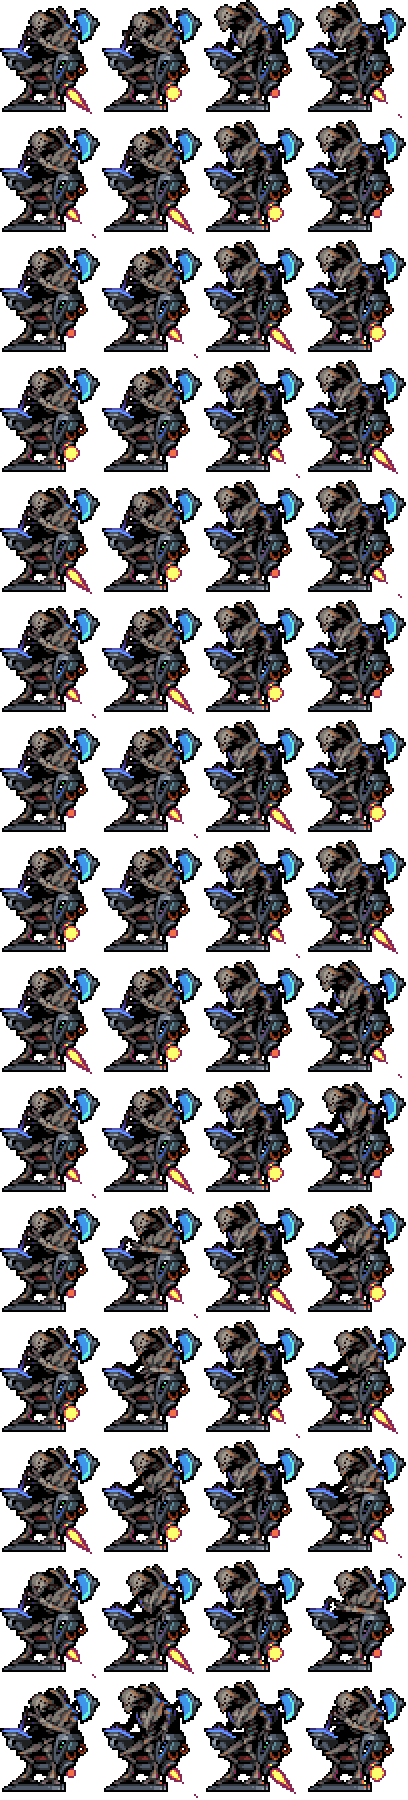
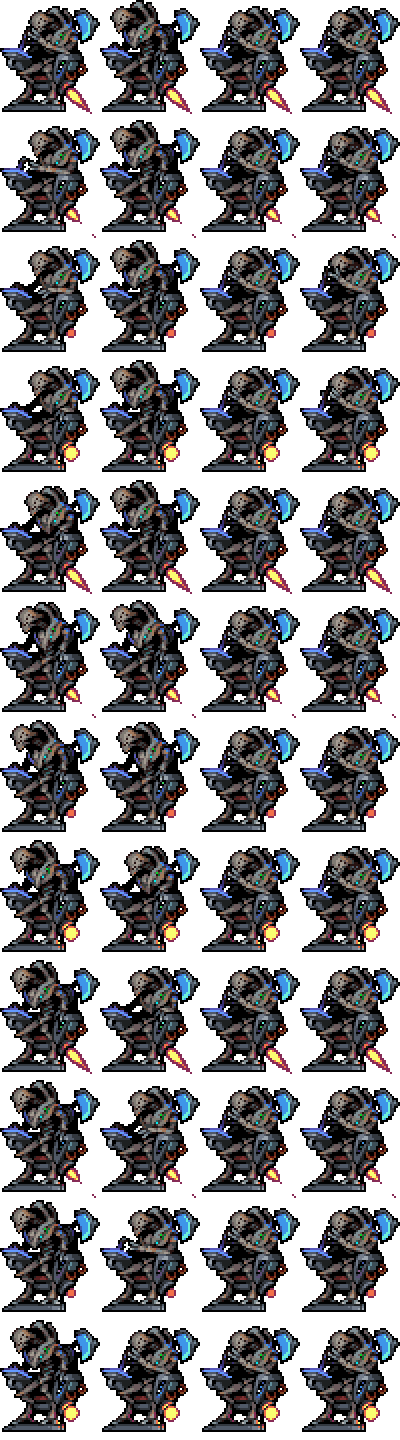
Updated Draedon's sprite

diff --git a/NPCs/ExoMechs/Draedon.cs b/NPCs/ExoMechs/Draedon.cs
@@ -60,13 +60,13 @@ namespace CalamityMod.NPCs.ExoMechs
         public override void SetStaticDefaults()
         {
             DisplayName.SetDefault("Draedon");
-            Main.npcFrameCount[npc.type] = 15;
+            Main.npcFrameCount[npc.type] = 12;
         }
 
         public override void SetDefaults()
         {
             npc.damage = 0;
-            npc.width = npc.height = 34;
+            npc.width = npc.height = 86;
             npc.defense = 100;
             npc.lifeMax = 16000;
             npc.noGravity = true;
@@ -74,6 +74,7 @@ namespace CalamityMod.NPCs.ExoMechs
             npc.dontTakeDamage = true;
             npc.aiStyle = aiType = -1;
             npc.knockBackResist = 0f;
+            npc.DeathSound = SoundID.NPCDeath14;
             npc.Calamity().DoesNotGenerateRage = true;
         }
 
@@ -450,15 +451,15 @@ namespace CalamityMod.NPCs.ExoMechs
 
         public override void FindFrame(int frameHeight)
         {
-            npc.frame.Width = 102;
+            npc.frame.Width = 100;
 
             int xFrame = npc.frame.X / npc.frame.Width;
             int yFrame = npc.frame.Y / frameHeight;
             int frame = xFrame * Main.npcFrameCount[npc.type] + yFrame;
 
             // Prepare to stand up if called for and not already doing so.
-            if (ShouldStartStandingUp && frame < 23)
-                frame = 23;
+            if (ShouldStartStandingUp && frame > 23)
+                frame = 0;
 
             int frameChangeDelay = 7;
             bool shouldNotSitDown = DefeatTimer > DelayBeforeDefeatStandup;
@@ -468,14 +469,14 @@ namespace CalamityMod.NPCs.ExoMechs
             {
                 frame++;
 
-                if (!ShouldStartStandingUp && frame >= 23)
-                    frame = 0;
+                if (!ShouldStartStandingUp && (frame < 23 || frame > 47))
+                    frame = 23;
 
                 // Do the sit animation infinitely if Draedon should not sit down again.
-                if (shouldNotSitDown && frame >= 47)
-                    frame = 36;
+                if (shouldNotSitDown && frame >= 16)
+                    frame = 11;
 
-                if (frame >= 59)
+                if (frame >= 23 && ShouldStartStandingUp)
                 {
                     frame = 0;
                     ShouldStartStandingUp = false;
